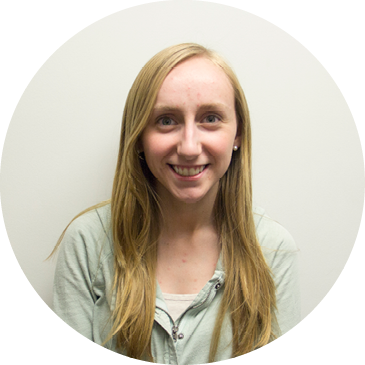
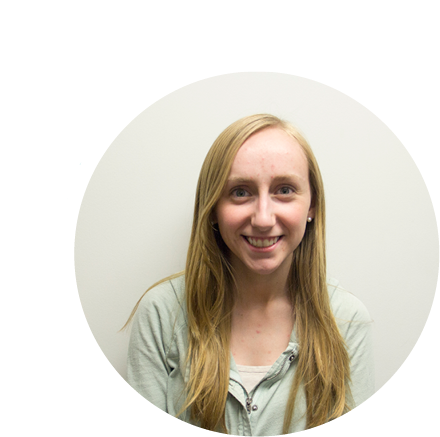
Trabalhando na home

diff --git a/index.html b/index.html
@@ -42,16 +42,18 @@
     </div>
     <div id="home" data-center="background-position: 50% 0px;" data-top-bottom="background-position: 50% -200px;" data-anchor-target="#home">
 
-        <!--<div id="logo-home"></div>
+        <div id="logo-home"></div>
 
-    <p id="headline">Sed ut perspiciatis unde omnis iste natus error sit voluptatem accusantium</p>
+    <div id="home-container"><p id="headline">Sed ut perspiciatis unde omnis iste natus error sit voluptatem accusantium</p>
 
-    <a class="popup-vimeo" href="http://vimeo.com/71054010">
+    <div id="download">
+    </div>
+        
+        <a class="popup-vimeo" href="http://vimeo.com/71054010">
         <div id="play-video"></div>
     </a>
-    <div id="download">
-        <p>download</p>
-    </div>-->
+        
+        </div>
 
 
     </div>
@@ -59,7 +61,10 @@
     <div id="second-screen">
         <div id="container-about">
 
-            <div id="about">
+            <div id="about" data-center="opacity: 1" 
+			    			data-center-top="opacity: 0" 
+			    			data--100-bottom="opacity: 0;" 
+			    			data-anchor-target="#second-screen">
                 <p class="title">De mandaremus transferrem</p>
                 <p class="description-app">Ubi quid tempor ut cupidatat o cernantur, quis doctrina vidisse et laborum imitarentur nam aliquip nam ipsum appellat in sunt tamen, ipsum adipisicing ingeniis anim excepteur qui ut legam mandaremus mandaremus ad irure e ingeniis quo irure. Anim singulis eu cohaerescant, culpa nam singulis, non esse o ipsum sed noster iudicem ad velit cillum sed nescius est esse arbitror, sed hic efflorescere iis ab lorem si anim, ex cupidatat hic ullamco. Consequat enim voluptate aut ex ut nulla cillum velit aut se quibusdam firmissimum a quamquam varias pariatur hic cillum incididunt eu occaecat se de hic distinguantur, proident dolor cupidatat nescius eu tamen et excepteur non varias. Expetendis enim senserit expetendis. Nostrud o laborum. E qui despicationes, excepteur quo amet. De mandaremus transferrem.</p>
             </div>
@@ -105,7 +110,22 @@
         <p class="title">Te elit quamquam senserit</p>
 
         <div id="team-container">
-            <div class="member"><div id="nicolette"></div></div>
+            <div class="member"><div id="nicolette"></div><p>Officia cohaerescant sed nescius ea incurreret velit proident, possumus dolore.</p></div>
+
+             <div class="member"><div id="tori"></div><p>Officia cohaerescant sed nescius ea incurreret velit proident, possumus dolore.</p></div>
+
+             <div class="member"><div id="cris"></div><p>Officia cohaerescant sed nescius ea incurreret velit proident, possumus dolore.</p></div>
+            <div class="member"><div id="erica"></div><p>Officia cohaerescant sed nescius ea incurreret velit proident, possumus dolore.</p></div>
+
+             <div class="member"><div id="rebecca"></div><p>Officia cohaerescant sed nescius ea incurreret velit proident, possumus dolore.</p></div>
+
+             <div class="member"><div id="lindsay"></div><p>Officia cohaerescant sed nescius ea incurreret velit proident, possumus dolore.</p></div>
+            <div class="member"><div id="cayetana"></div><p>Officia cohaerescant sed nescius ea incurreret velit proident, possumus dolore.</p></div>
+
+             <div class="member"><div id="mayra"></div><p>Officia cohaerescant sed nescius ea incurreret velit proident, possumus dolore.</p></div>
+
+             <div class="member"><div id="mackenzie"></div><p>Officia cohaerescant sed nescius ea incurreret velit proident, possumus dolore.</p></div>
+
         </div>
 
     </div>

diff --git a/css/main.css b/css/main.css
@@ -18,7 +18,7 @@ p   {
     min-height: 600;
     /*max-height: 600;*/
     background-color: #2BBCBA;
-    background-image: url("../img/image5.jpg");
+    background-image: url("../img/bw.jpg");
     background-repeat: no-repeat;
     background-size: 120% auto;
     z-index: 100;
@@ -27,12 +27,14 @@ p   {
 
 #play-video   {
     
-    width: 200px;
-    height: 200px;
-    margin-left: auto;
-    margin-right: auto;
-    margin-top: 31px;
-    background-image: url("../img/play.png")
+    width: 250px;
+    height: 80px;
+    background-position: center;
+    background-size: contain;
+    background-repeat: no-repeat;
+    background-image: url("../img/playvideo.png");
+    display: inline-table;
+    margin-left: 20px;
 }
 
 .popup-vimeo    {
@@ -47,14 +49,13 @@ p   {
 
 #download   {
     
-    width: 300px;
-    height: 150px;
+    width: 250px;
+    height: 80px;
     background-image: url("../img/download.png");
     background-position: center;
     background-size: contain;
     background-repeat: no-repeat;
-    margin-left: auto;
-    margin-right: auto;
+    display: inline-table;
     cursor: pointer;
     text-align: center;
     text-transform: uppercase;
@@ -69,7 +70,7 @@ p   {
 
 #download:hover   {
     
-     background-image: url("../img/download2.png");
+     background-image: url("../img/HoverDownload.png");
     -o-transition: all 0.25s ease;
    -ms-transition: all 0.25s ease;
    -moz-transition: all 0.25s ease;
@@ -100,19 +101,28 @@ p   {
     background-size: contain;
     background-position: center;
     background-repeat: no-repeat;
-    margin-left: auto;
-    margin-right: auto;
+    margin-left: 30px;
+    position: relative;
+    top: 20px;
     
+}
+
+#home-container {
+    
+    
+    position: absolute;
+    margin-left: 400px;
+    width: 60%;
+    top: 130px;
 }
 
 #headline   {
     
-    width: 40%;
     color: white;
-    font-size: 24px;
-    text-align: center;
-    margin-left: auto;
-    margin-right: auto;
+    width: 80%;
+    font-size: 72px;
+    font-family: 'AvenirLTStd85Heavy';
+    text-align: left;
     
 }
 

diff --git a/css/team.css b/css/team.css
@@ -1,7 +1,8 @@
 #team   {
     
     width: 100%;
-    height: 900px;
+    height: auto;
+    min-height: 1200px;
     background-color: #2BBCBA;
     padding-top: 50px;
     
@@ -12,14 +13,16 @@
     margin-left: 350px;
     width: 50%;
     height: 500px;
-    background-color: grey;
 }
 
 .member {
     
     width: 200px;
-    height: 350px;
+    height: 300px;
     margin-left: 20px;
+    display: inline-table;
+    color: white;
+    text-align: center;
 }
 
 #nicolette  {
@@ -27,4 +30,74 @@
     width: 200px;
     height: 200px;
     background-image: url("../img/Nicolette.png");
+    background-size: contain;
+    background-position: center top;
+}
+
+#tori  {
+    
+    width: 200px;
+    height: 200px;
+    background-image: url("../img/Tori2.png");
+    background-size: contain;
+}
+
+#cris  {
+    
+    width: 200px;
+    height: 200px;
+    background-image: url("../img/Cris2.png");
+    background-size: contain;
+}
+
+#erica  {
+    
+    width: 200px;
+    height: 200px;
+    background-image: url("../img/Erica2.png");
+    background-size: contain;
+}
+
+#rebecca  {
+    
+    width: 200px;
+    height: 200px;
+    background-image: url("../img/Rebecca2.png");
+    background-size: contain;
+}
+
+
+#lindsay  {
+    
+    width: 200px;
+    height: 200px;
+    background-image: url("../img/Lindsay2.png");
+    background-size: contain;
+}
+
+
+#cayetana  {
+    
+    width: 200px;
+    height: 200px;
+    background-image: url("../img/Cayetana2.png");
+    background-size: contain;
+}
+
+
+#mackenzie  {
+    
+    width: 200px;
+    height: 200px;
+    background-image: url("../img/Mackenzie2.png");
+    background-size: contain;
+}
+
+
+#mayra  {
+    
+    width: 200px;
+    height: 200px;
+    background-image: url("../img/Mayra2.png");
+    background-size: contain;
 }
